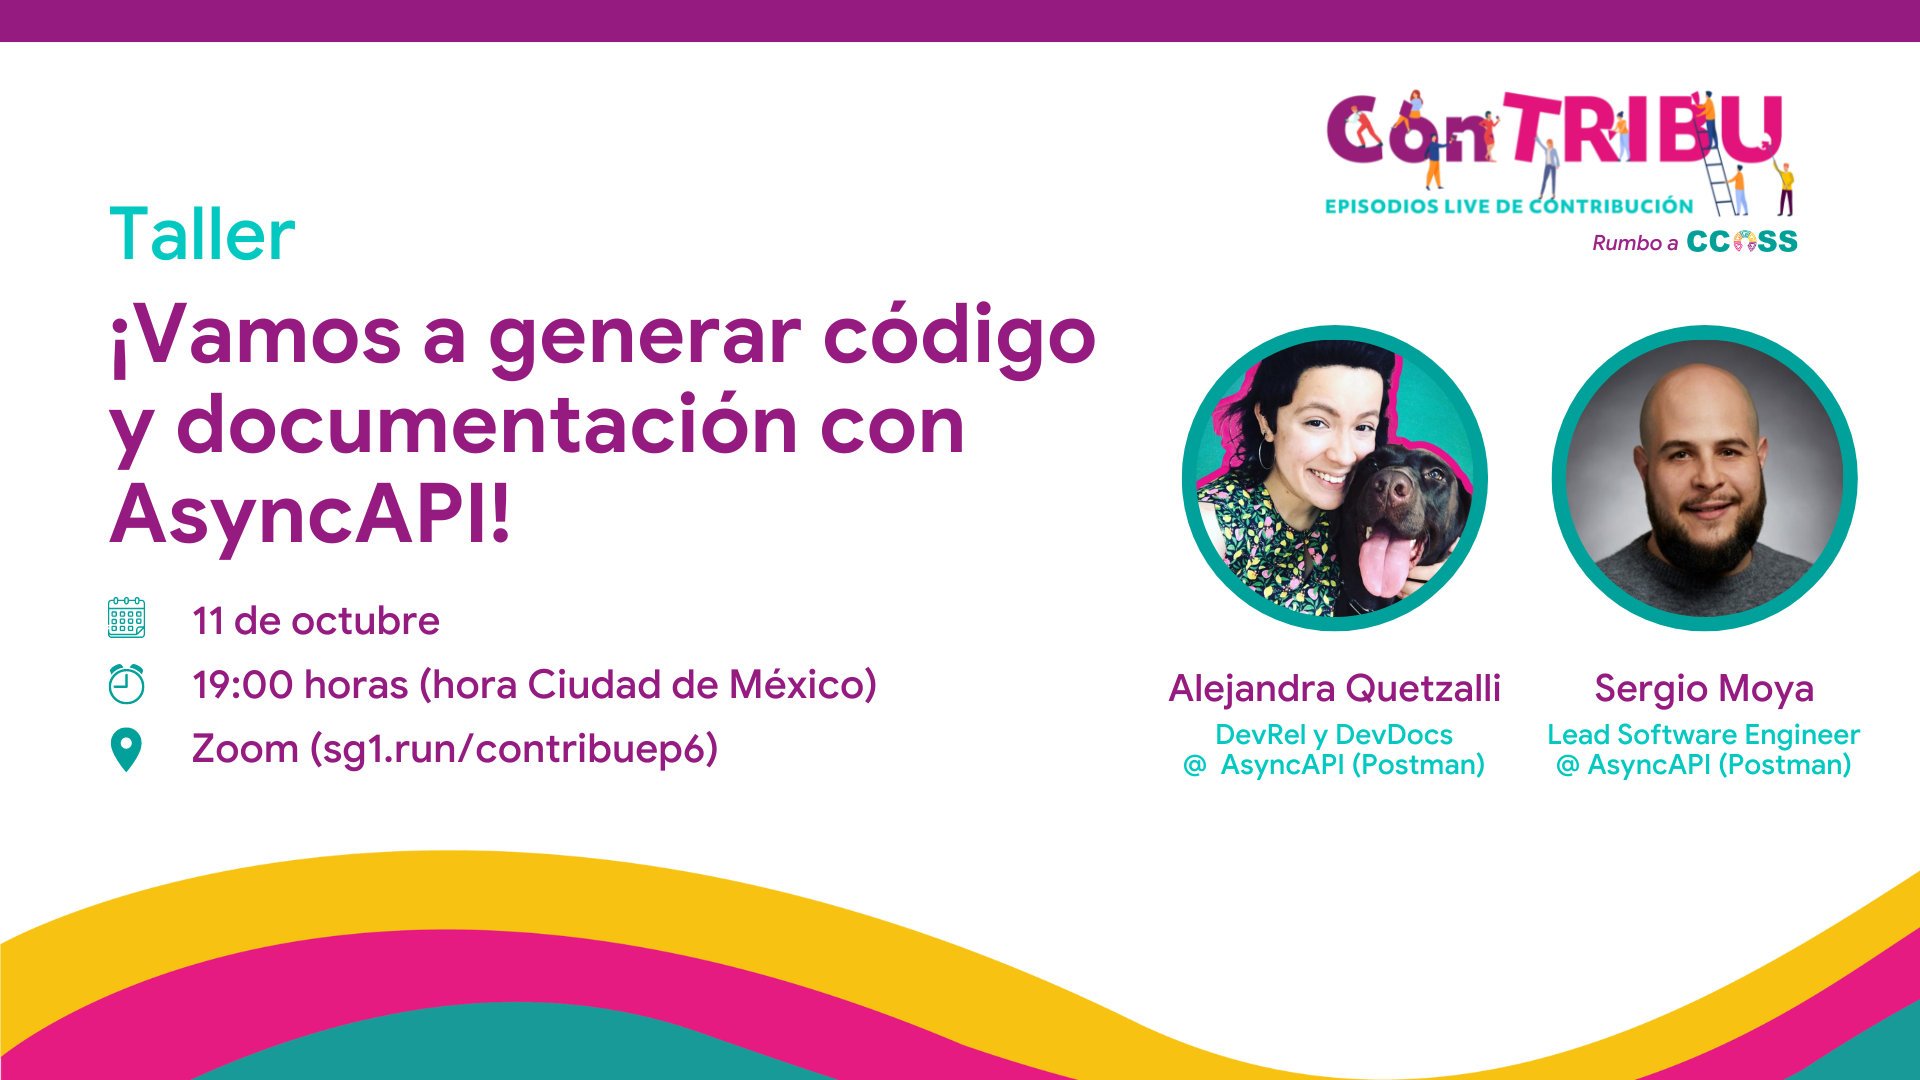
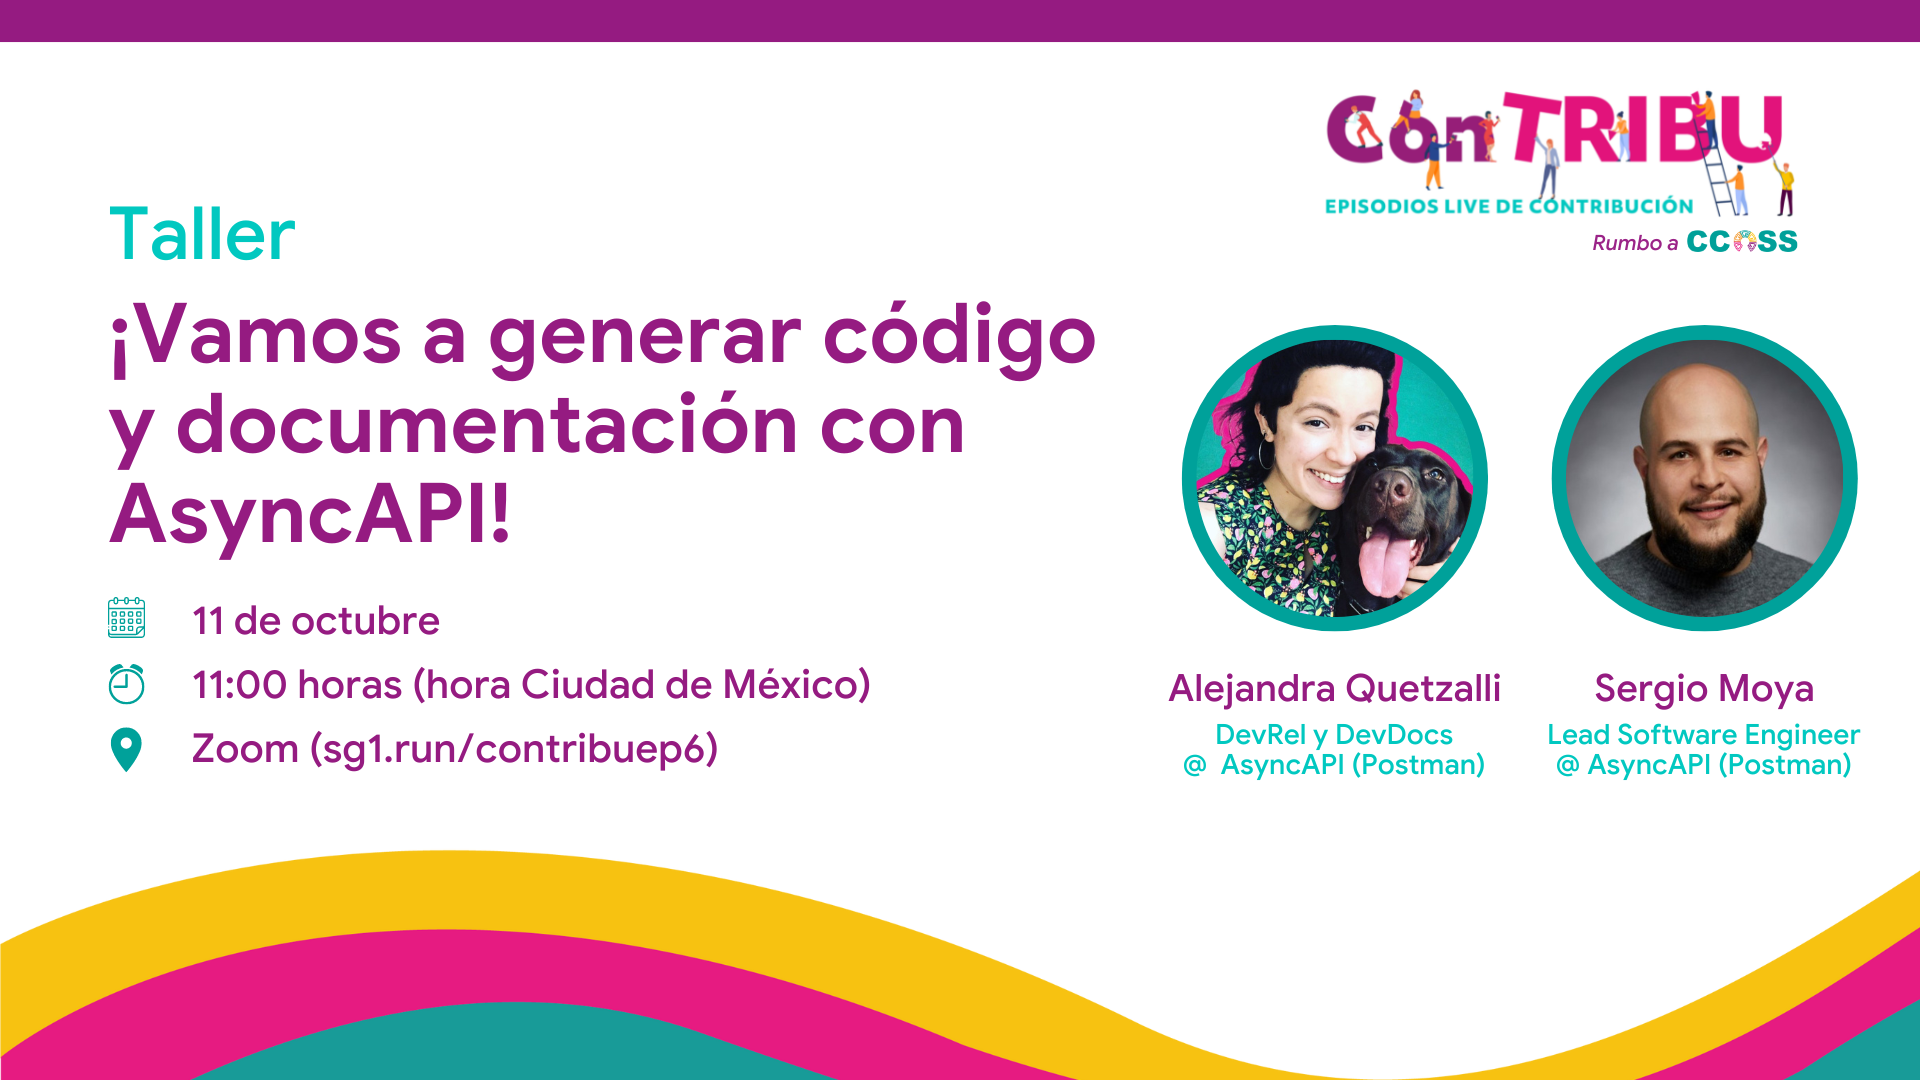
cambio orario contribu ep 6

Changed region(s): [[0.0938, 0.6111, 0.4688, 0.6722]]

diff --git a/content/contribu/t2e6-vamos-a-generar-codigo.md b/content/contribu/t2e6-vamos-a-generar-codigo.md
@@ -1,7 +1,7 @@
 ---
 title: "¡Vamos a Generar Código y Documentación con AsyncAPI!"
 date: 2022-09-04T16:00:00-05:00
-time_start: 2022-10-11T19:00:00-05:00
+time_start: 2022-10-11T11:00:00-05:00
 speakers:
  - Alejandra Quetzalli
  - Sergio Moya
